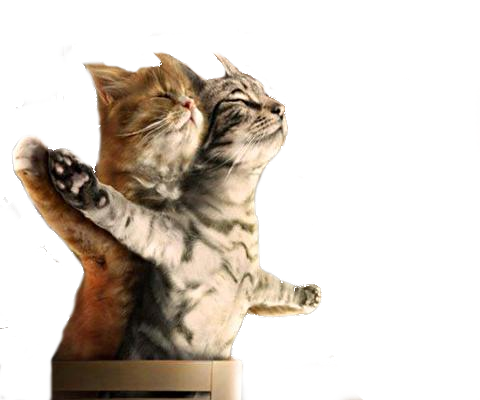
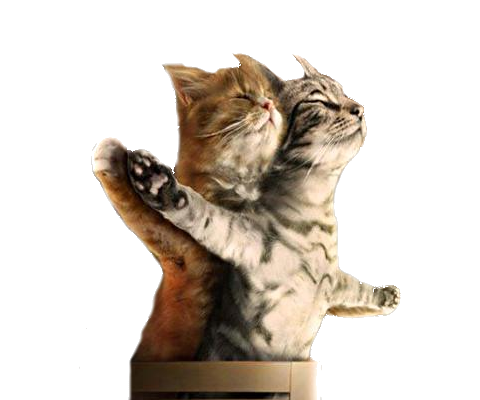
CatDatingSimulator

diff --git a/adamberntsson/CatDatingSimulator/page4.html b/adamberntsson/CatDatingSimulator/page4.html
@@ -10,15 +10,15 @@
     </div>
     <div class "page4">
         <img src ="GameImages/princessTalk.png" class="MainPic" title="Miss Cat Princess">
-        <p>hi, my name is Pricess Puss. Me and my friends was doin some catnip and I tripped out and got lost. Can you help me get back to them?</p>
+        <p>Hi, my name is Pricess Puss. Me and my friends was doin some catnip and I tripped out and got lost. <br> Can you help me get back to them?</p>
         <ul>
           <a href="gameExit.html">
-          hi Puss, sorry I have to get back to my hooomans.
+          Hi Puss, sorry I have to get back to my hooomans.
           </a>
         </ul>
         <ul>
           <a href="gameExit.html">
-            hi Puss, sure I can help you. But in order for me to help, you will have to answer my riddle.
+            Hi Puss, sure I can help you. But in order for me to help, you will have to answer my riddle.
           </a>
         </ul>
   </body>

diff --git a/adamberntsson/CatDatingSimulator/page1.html b/adamberntsson/CatDatingSimulator/page1.html
@@ -9,7 +9,7 @@
     <img src ="GameImages/header.png" class="header" title="CAT DATING SIMULATOR">
     <div>
         <img src ="GameImages/lonelyCat.jpg" class="MainPic" title="Lonely Cat">
-        <p>You are a lonely cat and have no faith in life. After sitting at home doing catnip and watching Catflix all day you hear a sound outside the window.</p>
+        <p>You are a lonely cat and have no faith in life.<br> After sitting at home watching Catflix all day you hear <br> a sound outside the window.</p>
         <ul>
           <a href="page2.html">
           Tell your hooman to open the door and let you out!

diff --git a/adamberntsson/CatDatingSimulator/gameExit.html b/adamberntsson/CatDatingSimulator/gameExit.html
@@ -6,12 +6,12 @@
     <title>Cat Dating Simulator</title>
   </head>
   <body>
-    <embed name="myMusic" loop="loop" hidden="true" src="nyanCat.mp3"></embed>
     <img src ="GameImages/header.png" class="header" title="CAT DATING SIMULATOR">
+      <embed name="myMusic" loop="loop" hidden="true" src="nyanCat.mp3"></embed>
     </div>
     <div class "page1">
         <img src ="GameImages/cuteCat.gif" class="MainPic" title="Fat Cat Sleeping">
-        <p>GAME OVER</p>
+        <p>GAME OVER, YOU SUCK</p>
         <a href="index.html">
           Play again?
         </a>

diff --git a/adamberntsson/CatDatingSimulator/CSS/style.css b/adamberntsson/CatDatingSimulator/CSS/style.css
@@ -1,8 +1,41 @@
-body {
+div, .header {
   margin-left: 30%;
 }
 
+.FirstPic:hover {
+  transition: 6s;
+  transform: rotate(360deg);
+}
+
+p:hover {
+  transition: 5s;
+  transform:translate3d(200px, 200px, 30px);
+
+}
+
+ul:hover {
+  transition: 3s;
+  transform:skewX(30deg);
+
+}
+
+.StartGame {
+  margin-left: 40%;
+}
+
+.MainPic:hover {
+  transition: 2s;
+  transform:rotateX(180deg);
+}
+
+.header:hover {
+  transition: 10s;
+  transform:skewX(180deg);
+}
+
+
 a {
+
   font-size: 24px;
   text-decoration: none;
   color: black;

diff --git a/adamberntsson/CatDatingSimulator/index.html b/adamberntsson/CatDatingSimulator/index.html
@@ -6,11 +6,12 @@
     <title>Cat Dating Simulator</title>
   </head>
   <body>
-      <div>
       <img src ="GameImages/header.png" class="header" title="CAT DATING SIMULATOR">
       </div>
-    <div>
-        <img src ="GameImages/titanicCats.png" class="MainPic" title="Lucky Cat Couple">
+      <div class="FirstPic">
+          <img src ="GameImages/titanicCats.png" title="Lucky Cat Couple">
+      </div>
+    <div class="StartGame">
         <a href="page1.html">START DATING</a>
       </div>
   </body>

diff --git a/adamberntsson/CatDatingSimulator/page3.html b/adamberntsson/CatDatingSimulator/page3.html
@@ -14,7 +14,7 @@
           <p>Quick say something smooth before she run away.</p>
         <ul>
           <a href="page4.html">
-          Ehh, hi pussycat, whats your name?
+          Hi pussycat, whats your name?
           </a>
         </ul>
         <ul>
